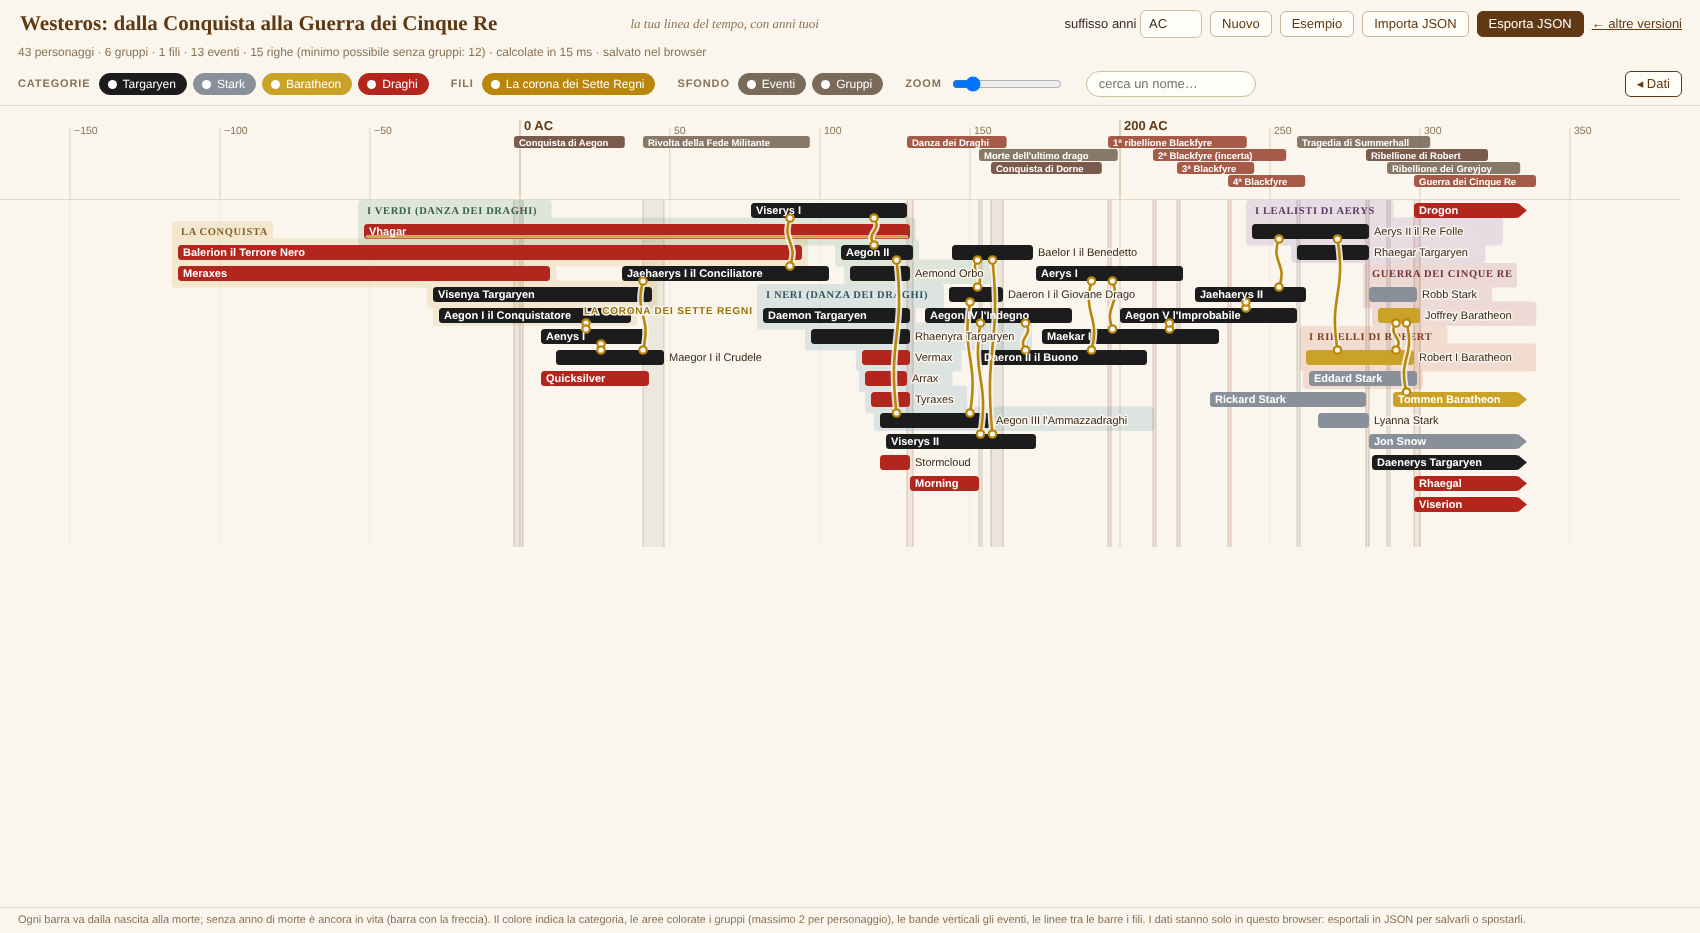
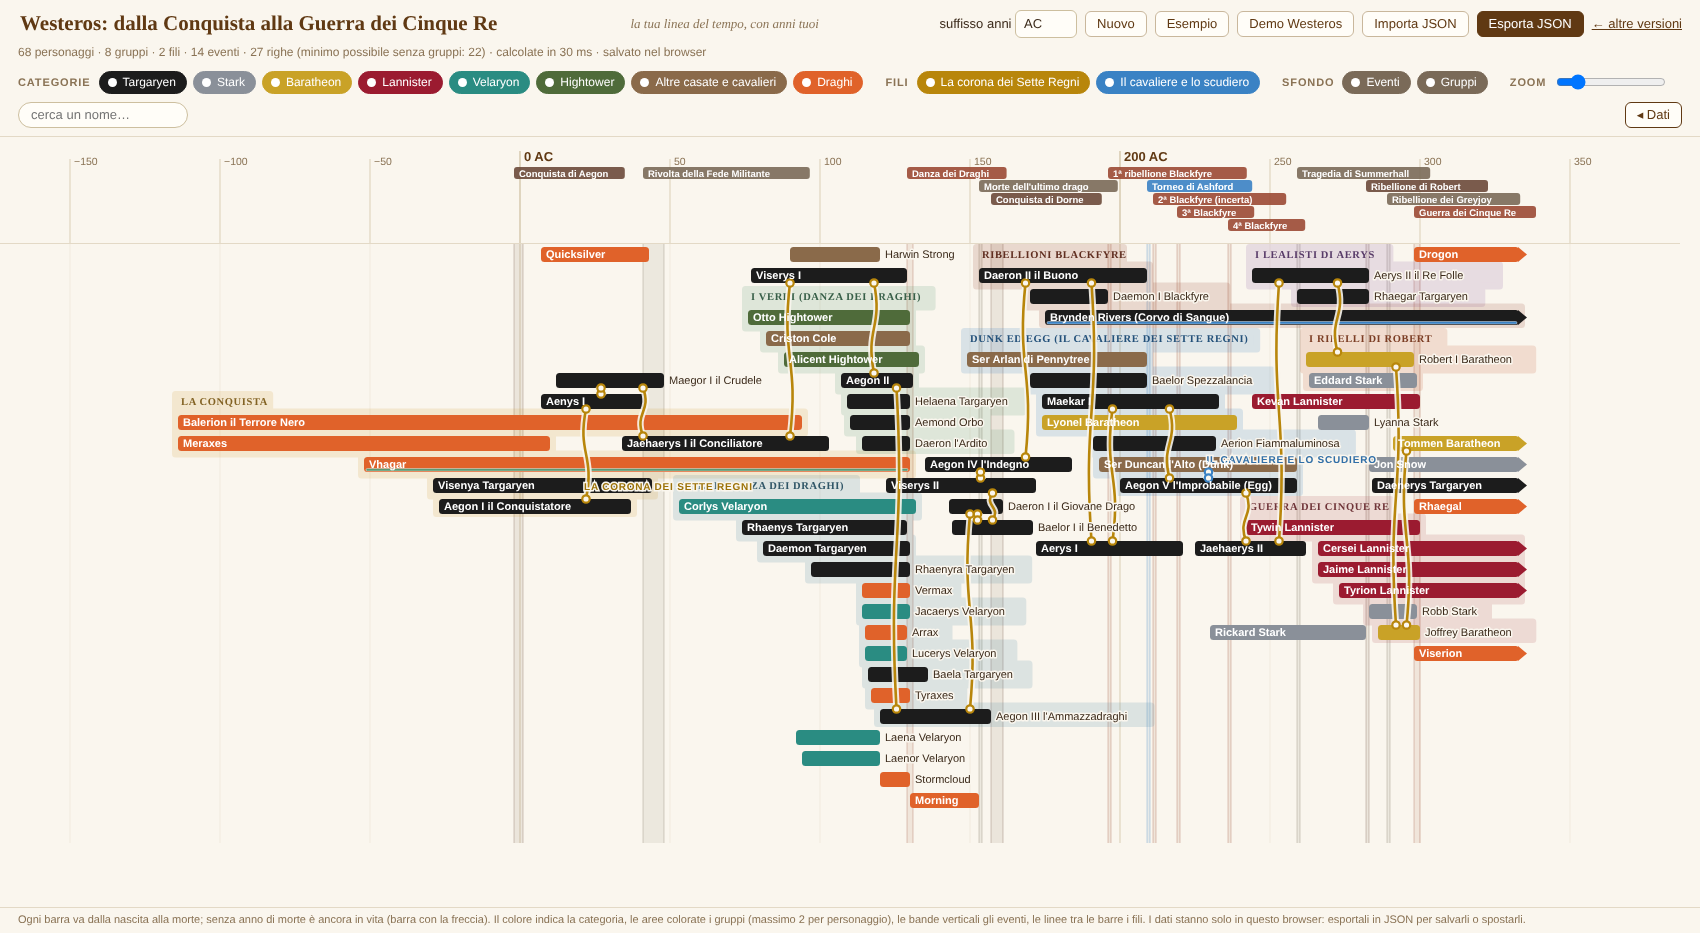
Demo Westeros: +25 personaggi (House of the Dragon, Il cavaliere dei Sette Regni, Lannister), nuove casate e colori, gruppo e filo di Dunk ed Egg, torneo di Ashford
Claude-Session: https://claude.ai/code/session_01QGyWCHcTRUz7jmERSx92X1

diff --git a/appunti/westeros.md b/appunti/westeros.md
@@ -26,6 +26,7 @@ Niente testi copiati: solo fatti (nomi, anni) e le nostre etichette.
 - La pagina *Timeline of major events* ha intestazioni sbagliate: le Guerre del Drago sono intitolate «213 AC», ma il testo dice 2–4 AC.
 - La seconda ribellione Blackfyre ha la data tra parentesi quadre (211 AC): incerta.
 - Le pagine delle casate (Stark, Baratheon, Lannister) **non** riportano anni: servono le pagine dei singoli.
+- Diversi personaggi di *House of the Dragon* e del *Cavaliere dei Sette Regni* hanno solo un intervallo («in or before 76 AC», «174–194 AC»).
 - Diversi draghi hanno solo la data di morte. La v3 vuole una nascita, quindi per ora sono fuori dalle barre (elenco sotto).
 
 ## Colori (categorie della v3 = casate)
@@ -35,7 +36,11 @@ Niente testi copiati: solo fatti (nomi, anni) e le nostre etichette.
 | Targaryen | nero `#1c1c1c` | come richiesto |
 | Stark | grigio `#8a9099` | come richiesto |
 | Baratheon | oro `#c9a227` | il campo dello stemma (cervo nero su oro) |
-| Draghi | rosso fuoco `#b3261e` | categoria a sé, per distinguerli dai cavalieri |
+| Lannister | cremisi `#9b1b30` | il campo dello stemma (leone d'oro su cremisi) |
+| Velaryon | verde mare `#2a8c82` | il campo dello stemma (cavalluccio d'argento su verde mare) |
+| Hightower | verde oliva `#4f6b3a` | **scelta nostra** (il verde dei Verdi), non dallo stemma |
+| Altre casate e cavalieri | marrone `#8a6a4a` | Cole, Strong, Dunk, Arlan |
+| Draghi | arancio fuoco `#e0622a` | categoria a sé; prima era rosso, cambiato per non confonderlo con i Lannister |
 
 ## Eventi ✅ (AWOIAF, Timeline of major events)
 
@@ -96,7 +101,46 @@ Prima della Conquista, per un'eventuale estensione: −114 migrazione dei Targar
 
 Regni dei Targaryen confermati anche dalla pagina [House Targaryen](https://awoiaf.westeros.org/index.php/Targaryen).
 
-**Esclusi per ora dalle barre** (manca un anno): Cregan Stark (nato nel 108 AC, morte non indicata), Torrhen Stark (l'infobox non dà la nascita), Rhaenys (moglie di Aegon I: nessuna data nella fonte consultata), Lannister (non verificati).
+### Aggiunti il 14/11/2026: *House of the Dragon*, *Il cavaliere dei Sette Regni*, Lannister ✅ / ≈
+
+Regola per gli intervalli: la barra usa il **primo anno** dell'intervallo (per la nascita e anche per la morte), e la scheda lo dice.
+
+| Nome | Nascita | Morte | Note |
+|---|---|---|---|
+| Rhaenys Targaryen (la regina che non fu mai) | 74 | 129 | 55 anni; drago Meleys |
+| Corlys Velaryon | inizio 53 | 132 | 79 anni |
+| Laenor Velaryon | 94 | 120 | drago Seasmoke |
+| Laena Velaryon | fine 92 | 120 | 27 anni; drago Vhagar |
+| Jacaerys Velaryon | 114 | 130 | 15 anni |
+| Lucerys Velaryon | 115 | 129 | 13 anni |
+| Baela Targaryen | 116 | ≈ 136–176 | barra fino al 136; drago Moondancer |
+| Alicent Hightower | 88 | 133 | 45 anni |
+| Otto Hightower | ≈ 76 o prima | 130 | barra dal 76 |
+| Criston Cole | 82 | 130 | |
+| Helaena Targaryen | 109 | 130 | 21 anni; drago Dreamfyre |
+| Daeron l'Ardito (figlio di Viserys I) | 114 | 130 | drago Tessarion |
+| Harwin Strong | ≈ 90 o prima | 120 | barra dal 90 |
+| Ser Duncan l'Alto (Dunk) | 193 | 259 | 66 anni; muore a Summerhall |
+| Ser Arlan di Pennytree | ≈ 149–153 | 209 | barra dal 149 |
+| Baelor Spezzalancia | 170 | 209 | |
+| Aerion Fiammaluminosa | ≈ 191–194 | 232 | barra dal 191 |
+| Brynden Rivers (Corvo di Sangue) | 175 | — | scompare oltre la Barriera nel 252; vivo come corvo con tre occhi |
+| Daemon I Blackfyre | 170 | 196 | nascita da *Timeline of major events*; morte nella prima ribellione |
+| Lyonel Baratheon | ≈ 174–194 | ≈ 239–245 | barra 174–239 |
+| Tywin Lannister | 242 | 300 | |
+| Kevan Lannister | 244 | 300 | 55 anni |
+| Cersei Lannister | 266 | — | viva alla fine dei romanzi |
+| Jaime Lannister | 266 | — | vivo alla fine dei romanzi |
+| Tyrion Lannister | 273 | — | vivo alla fine dei romanzi |
+
+Egg è Aegon V (già presente, 200–259); ora è nel gruppo «Dunk ed Egg» con Dunk, Maekar I, Arlan, Baelor Spezzalancia, Aerion, Lyonel e Corvo di Sangue. Il filo blu «Il cavaliere e lo scudiero» unisce Dunk ed Egg. Nuovo evento: Torneo di Ashford (209 AC, *The Hedge Knight*).
+
+**Esclusi per ora dalle barre** (manca un anno o la fonte non lo dà):
+- Cregan Stark: nato nel 108 AC, morte non indicata.
+- Torrhen Stark: l'infobox non dà la nascita.
+- Rhaenys (moglie di Aegon I): nessuna data nella fonte consultata.
+- Rhaena (figlia di Daemon): nata nel 116 AC, morte non indicata.
+- Larys Strong: nessun anno nella pagina.
 
 ## Draghi e cavalieri (AWOIAF, pagina [Dragon](https://awoiaf.westeros.org/index.php/Dragon), sezione «Known Dragons»)
 
@@ -140,6 +184,6 @@ La Conquista · I Neri (Danza dei Draghi) · I Verdi (Danza dei Draghi) · I lea
 ## Da fare
 
 - [ ] Decidere la regola per i draghi senza data di nascita.
-- [ ] Lannister, Tully, Greyjoy, Martell (con i loro colori), se servono.
+- [ ] Tully, Greyjoy, Martell (con i loro colori), se servono.
 - [ ] Eventi mancanti: Guerre del Drago, Grande morbo di primavera, Re da Nove Soldi, Duskendale.
 - [ ] Cregan e Torrhen Stark: cercare la data mancante.

diff --git a/README.md b/README.md
@@ -51,7 +51,7 @@ HTML e JavaScript puri, senza framework.
 - **`src/descrizioni.js`**: le frasi delle schedine, una per personaggio.
 - **`v2/index.html`**: la versione 2, in SVG puro: categorie mischiate, 23 gruppi come aree colorate dietro le barre, bande per gli eventi (es. le guerre mondiali), "fili" che uniscono personaggi lontani (pirati, Asburgo, donne, Galileo→Oppenheimer) e il gruppo secondario del Secolo d'oro olandese. Le righe sono calcolate prima di disegnare (`src/v2-layout.js`, deterministico) e i gruppi stanno in `src/gruppi.js`. Requisiti e scelte in [`V2_REQUISITI.md`](V2_REQUISITI.md).
 - **`v3/index.html`** 🚧 *(in lavorazione)*: la v2 che parte vuota, per costruire la propria linea del tempo (per esempio quella di un libro fantasy, con anni inventati): personaggi, gruppi, categorie, fili ed eventi si inseriscono da un pannello e si salvano in JSON. Autonoma, con il proprio `layout.js`; formato dei dati in [`v3/README.md`](v3/README.md).
-  - 🐉 **Demo: Westeros** ([apri online](https://maloghigno.github.io/Timeline/v3/?demo=westeros)): la cronologia delle *Cronache del ghiaccio e del fuoco* di George R. R. Martin, dalla Conquista di Aegon alla Guerra dei Cinque Re. Ci sono 31 personaggi e 12 draghi, con le casate come colori (Targaryen in nero, Stark in grigio, Baratheon in oro, draghi in rosso fuoco), 13 eventi e il filo d'oro della corona dei Sette Regni, da Aegon I a Tommen. Le date sono verificate su [A Wiki of Ice and Fire](https://awoiaf.westeros.org); appunti e fonti sono in [`appunti/westeros.md`](appunti/westeros.md).
+  - 🐉 **Demo: Westeros** ([apri online](https://maloghigno.github.io/Timeline/v3/?demo=westeros)): la cronologia delle *Cronache del ghiaccio e del fuoco* di George R. R. Martin, dalla Conquista di Aegon alla Guerra dei Cinque Re. Ci sono 56 personaggi e 12 draghi, compresi i protagonisti di *House of the Dragon* e del *Cavaliere dei Sette Regni* (Dunk ed Egg). Le casate fanno da colori: Targaryen in nero, Stark in grigio, Baratheon in oro, Lannister in cremisi, Velaryon in verde mare, draghi in arancio fuoco. Ci sono poi 14 eventi, il filo d'oro della corona dei Sette Regni (da Aegon I a Tommen) e quello che unisce Dunk ed Egg. Le date sono verificate su [A Wiki of Ice and Fire](https://awoiaf.westeros.org); appunti e fonti sono in [`appunti/westeros.md`](appunti/westeros.md).
 - **`asset/`**: il poster.
 
 ## ➕ Aggiungere un personaggio

diff --git a/v3/README.md b/v3/README.md
@@ -13,9 +13,10 @@ La v2 che parte vuota: inserisci tu personaggi, gruppi, categorie, fili ed event
 Il pulsante **Demo Westeros** (o il link [`v3/?demo=westeros`](https://maloghigno.github.io/Timeline/v3/?demo=westeros)) carica la cronologia delle *Cronache del ghiaccio e del fuoco* di George R. R. Martin.
 
 - Copre il periodo dalla Conquista di Aegon (anni AC; quelli prima sono negativi) alla Guerra dei Cinque Re.
-- Ci sono 31 personaggi e 12 draghi, con la casata come colore della barra: Targaryen in nero, Stark in grigio, Baratheon in oro, draghi in rosso fuoco.
-- Ci sono 6 gruppi (i Neri e i Verdi della Danza dei Draghi, i ribelli di Robert…) e 13 eventi.
-- Il filo **La corona dei Sette Regni** segue i 20 re nell'ordine di successione (`"ordine": "elenco"`), non di nascita.
+- Ci sono 56 personaggi e 12 draghi, compresi quelli di *House of the Dragon* e del *Cavaliere dei Sette Regni*.
+- La casata è il colore della barra: Targaryen in nero, Stark in grigio, Baratheon in oro, Lannister in cremisi, Velaryon in verde mare, Hightower in verde oliva, draghi in arancio fuoco.
+- Ci sono 8 gruppi (i Neri e i Verdi della Danza dei Draghi, Dunk ed Egg, le ribellioni Blackfyre, i ribelli di Robert…) e 14 eventi.
+- Il filo **La corona dei Sette Regni** segue i 20 re nell'ordine di successione (`"ordine": "elenco"`), non di nascita. Il filo **Il cavaliere e lo scudiero** unisce Dunk ed Egg.
 - Le date vengono da [A Wiki of Ice and Fire](https://awoiaf.westeros.org). Dove la fonte dà un intervallo, la barra parte dal primo anno e la scheda lo dice. Dati, tranelli e draghi esclusi sono in [`../appunti/westeros.md`](../appunti/westeros.md).
 - File: [`demo/westeros.json`](demo/westeros.json) e l'anteprima [`demo/westeros.png`](demo/westeros.png).
 - Il pulsante legge il file via web: aprendo la pagina direttamente dal computer (`file://`) il browser lo blocca, e in quel caso si usa **Importa JSON**.
